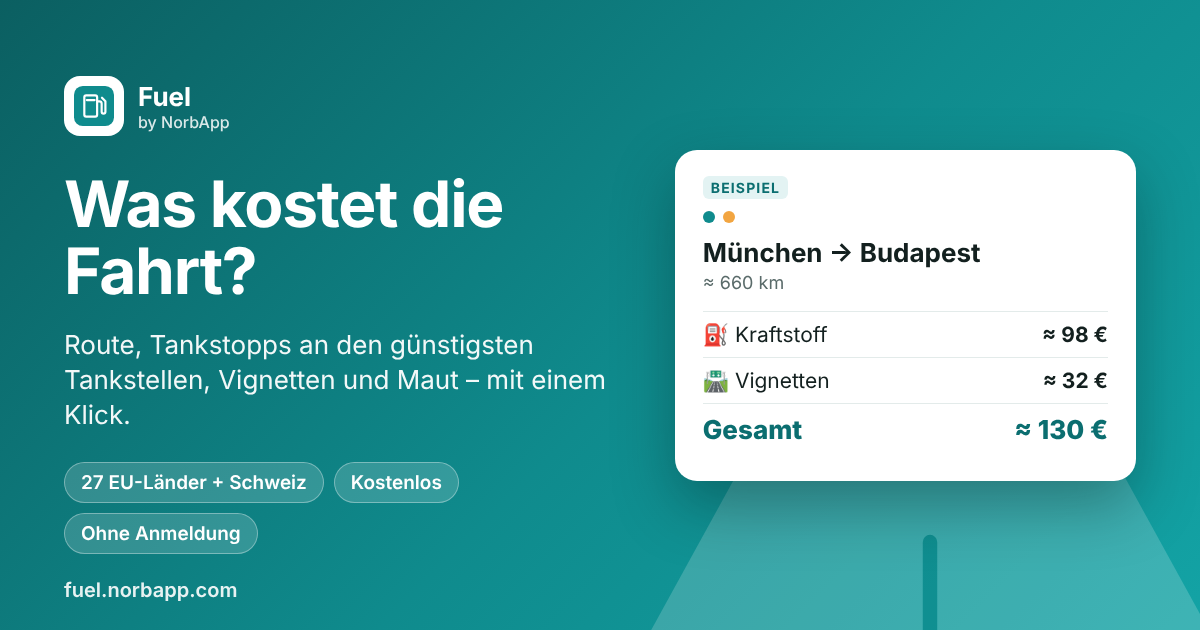
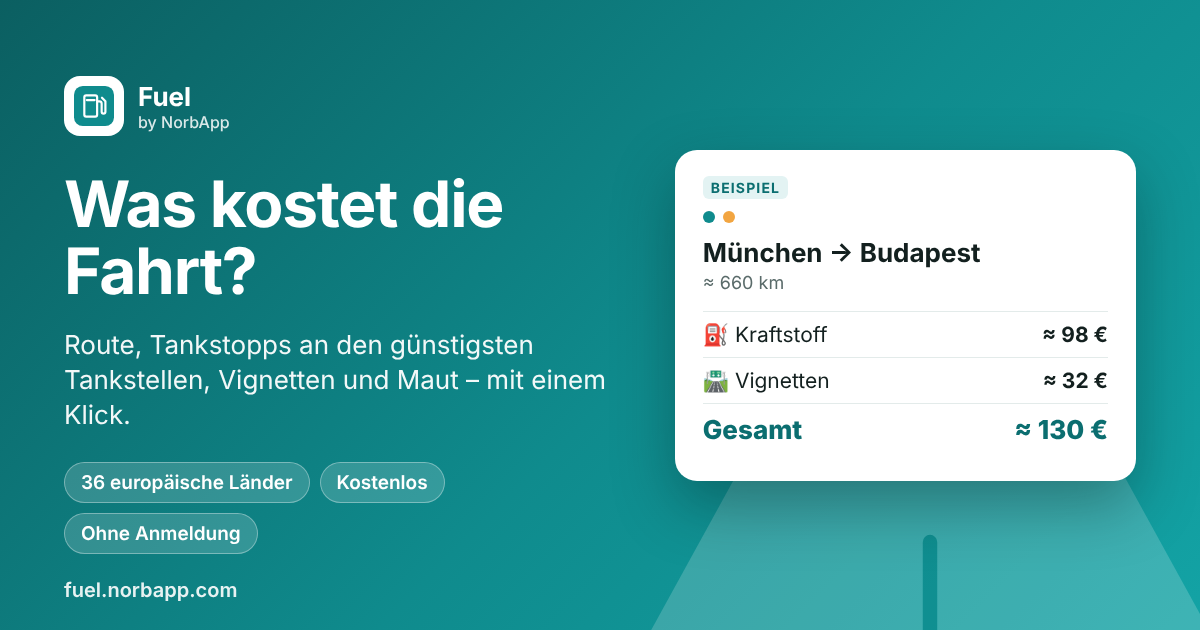
Western Balkans and Turkey: prices, tolls, currencies
- FUEL-API: RS, BA, ME, MK, XK and TR as estimate countries. Their average
  is a ratio (2025 national price level) of the same morning's HR/HU/SI/BG/
  RO/GR Oil Bulletin average, so it moves daily with the region; overridable
  via BASE_PRICES_JSON, refined per station by community reports.
- Currencies: TRY from the ECB; BAM (peg), MKD and RSD fixed rates.
- Tolls: per-km averages for RS, BA, MK, TR (bridges/tunnels not included),
  ME per km + Sozina tunnel, XK free. Turkish O roads count as motorways.
- Texts: 36 countries in the subtitle (24 languages), descriptions, share
  images, sources page and Facebook kit.

Claude-Session: https://claude.ai/code/session_01T5D9cFDC5HJvcRdggH5A5a

Changed region(s): [[0.0617, 0.7238, 0.4008, 0.8143]]

diff --git a/web/src/i18n/legal.ts b/web/src/i18n/legal.ts
@@ -27,14 +27,14 @@ const SOURCES_EN: LegalPage = {
       title: "Fuel prices",
       body: [
         "Fuel station locations in average-price countries: OpenStreetMap (Overpass API). User-reported prices: Fuel by NorbApp users. Station prices: Germany – Tankerkönig / MTS-K (CC BY 4.0); Austria – E-Control Spritpreisrechner; Spain, France, Italy, Portugal and Slovenia – the official open price data of those countries.",
-        "Country averages and estimates: European Commission Weekly Oil Bulletin. Switzerland: TCS fuel price radar as anchor, moved daily with the neighbouring countries. Exchange rates: European Central Bank.",
+        "Country averages and estimates: European Commission Weekly Oil Bulletin. Switzerland: TCS fuel price radar as anchor, moved daily with the neighbouring countries. Western Balkans and Turkey: estimated from the national price level relative to the neighbouring EU countries, moved daily with them. Exchange rates: European Central Bank.",
         "All prices are indicative; the price at the pump is what counts.",
       ],
     },
     {
       title: "Tolls and vignettes",
       body: [
-        "Vignette and toll tariffs are collected from the official national operators and checked regularly. Distance-based tolls are estimates.",
+        "Vignette and toll tariffs are collected from the official national operators and checked regularly. Distance-based tolls (and all tolls in the Western Balkans and Turkey) are estimates.",
       ],
     },
     {
@@ -228,14 +228,14 @@ const DE: LegalTexts = {
         title: "Kraftstoffpreise",
         body: [
           "Tankstellenstandorte in Ländern mit Durchschnittspreisen: OpenStreetMap (Overpass API). Von Nutzern gemeldete Preise: Nutzer von Fuel by NorbApp. Tankstellenpreise: Deutschland – Tankerkönig / MTS-K (CC BY 4.0); Österreich – E-Control Spritpreisrechner; Spanien, Frankreich, Italien, Portugal und Slowenien – die offiziellen offenen Preisdaten dieser Länder.",
-          "Landesdurchschnitte und Schätzungen: Weekly Oil Bulletin der Europäischen Kommission. Schweiz: TCS-Benzinpreis-Radar als Anker, täglich mit den Nachbarländern fortgeschrieben. Wechselkurse: Europäische Zentralbank.",
+          "Landesdurchschnitte und Schätzungen: Weekly Oil Bulletin der Europäischen Kommission. Schweiz: TCS-Benzinpreis-Radar als Anker, täglich mit den Nachbarländern fortgeschrieben. Westbalkan und Türkei: geschätzt aus dem nationalen Preisniveau im Verhältnis zu den benachbarten EU-Ländern, täglich mit ihnen fortgeschrieben. Wechselkurse: Europäische Zentralbank.",
           "Alle Preise sind Richtwerte; maßgeblich ist der Preis an der Zapfsäule.",
         ],
       },
       {
         title: "Maut und Vignetten",
         body: [
-          "Vignetten- und Mauttarife stammen von den offiziellen nationalen Betreibern und werden regelmäßig geprüft. Streckenmaut ist geschätzt.",
+          "Vignetten- und Mauttarife stammen von den offiziellen nationalen Betreibern und werden regelmäßig geprüft. Streckenmaut (und alle Mautgebühren auf dem Westbalkan und in der Türkei) ist geschätzt.",
         ],
       },
       {
@@ -344,14 +344,14 @@ const HU: LegalTexts = {
         title: "Üzemanyagárak",
         body: [
           "A kutak helye az átlagáras országokban: OpenStreetMap (Overpass API). Felhasználói árak: a Fuel by NorbApp felhasználói. Kútárak: Németország – Tankerkönig / MTS-K (CC BY 4.0); Ausztria – E-Control Spritpreisrechner; Spanyolország, Franciaország, Olaszország, Portugália és Szlovénia – az adott ország hivatalos, nyílt áradatai.",
-          "Országos átlagok és becslések: az Európai Bizottság Weekly Oil Bulletinje. Svájc: a TCS árradarja mint kiindulópont, naponta a szomszédos országokkal együtt mozgatva. Árfolyamok: Európai Központi Bank.",
+          "Országos átlagok és becslések: az Európai Bizottság Weekly Oil Bulletinje. Svájc: a TCS árradarja mint kiindulópont, naponta a szomszédos országokkal együtt mozgatva. Nyugat-Balkán és Törökország: az országos árszint a szomszédos EU-országokhoz viszonyítva, naponta velük együtt mozgatva. Árfolyamok: Európai Központi Bank.",
           "Minden ár tájékoztató jellegű; a kútnál kiírt ár az irányadó.",
         ],
       },
       {
         title: "Útdíjak és matricák",
         body: [
-          "A matrica- és útdíjtarifák a hivatalos nemzeti üzemeltetőktől származnak, rendszeresen ellenőrizzük őket. A szakaszalapú díjak becslések.",
+          "A matrica- és útdíjtarifák a hivatalos nemzeti üzemeltetőktől származnak, rendszeresen ellenőrizzük őket. A szakaszalapú díjak (és a Nyugat-Balkán, valamint Törökország útdíjai) becslések.",
         ],
       },
       {

diff --git a/web/src/app/page.tsx b/web/src/app/page.tsx
@@ -9,19 +9,19 @@ const SHARE = {
   hu: {
     title: "Fuel by NorbApp – Mennyibe kerül az út?",
     description:
-      "Útvonal, tankolás a legolcsóbb kutaknál, matricák és útdíjak – egy kattintással. 27 EU-ország + Svájc, ingyenes, regisztráció nélkül.",
+      "Útvonal, tankolás a legolcsóbb kutaknál, matricák és útdíjak – egy kattintással. 36 európai ország a Balkánnal és Törökországgal, ingyenes, regisztráció nélkül.",
     locale: "hu_HU",
   },
   de: {
     title: "Fuel by NorbApp – Was kostet die Fahrt?",
     description:
-      "Route, Tankstopps an den günstigsten Tankstellen, Vignetten und Maut – mit einem Klick. 27 EU-Länder + Schweiz, kostenlos, ohne Anmeldung.",
+      "Route, Tankstopps an den günstigsten Tankstellen, Vignetten und Maut – mit einem Klick. 36 europäische Länder inkl. Balkan und Türkei, kostenlos, ohne Anmeldung.",
     locale: "de_DE",
   },
   en: {
     title: "Fuel by NorbApp – What will the trip cost?",
     description:
-      "Route, fuel stops at the cheapest stations, vignettes and tolls – in one click. 27 EU countries + Switzerland, free, no sign-up.",
+      "Route, fuel stops at the cheapest stations, vignettes and tolls – in one click. 36 European countries incl. the Balkans and Turkey, free, no sign-up.",
     locale: "en_GB",
   },
 } as const;

diff --git a/web/src/i18n/messages/el.ts b/web/src/i18n/messages/el.ts
@@ -4,7 +4,7 @@ export const el: Messages = {
   brand: "Fuel by NorbApp",
   title: "Υπολογισμός κόστους ταξιδιού",
   subtitle:
-    "Διαδρομή, στάσεις ανεφοδιασμού, τιμές καυσίμων και διόδια για τις 27 χώρες της ΕΕ, καθώς και για Ελβετία, Λιχτενστάιν και Μονακό – στο νόμισμα της επιλογής σας.",
+    "Διαδρομή, στάσεις ανεφοδιασμού, τιμές καυσίμων και διόδια για 36 ευρωπαϊκές χώρες – την ΕΕ, την Ελβετία, τα Δυτικά Βαλκάνια και την Τουρκία – στο νόμισμα της επιλογής σας.",
   language: "Γλώσσα",
   footerDisclaimer: "Οι τιμές είναι ενδεικτικές.",
   footerMapData: "Δεδομένα χάρτη © συντελεστές του {osm}",

diff --git a/web/src/i18n/messages/bg.ts b/web/src/i18n/messages/bg.ts
@@ -4,7 +4,7 @@ export const bg: Messages = {
   brand: "Fuel by NorbApp",
   title: "Калкулатор на разходите за пътуване",
   subtitle:
-    "Маршрут, спирки за зареждане, цени на горивата и пътни такси за 27-те държави от ЕС, както и за Швейцария, Лихтенщайн и Монако – във валута по ваш избор.",
+    "Маршрут, спирки за зареждане, цени на горивата и пътни такси за 36 европейски държави – ЕС, Швейцария, Западните Балкани и Турция – във валута по ваш избор.",
   language: "Език",
   footerDisclaimer: "Цените са ориентировъчни.",
   footerMapData: "Картографски данни © сътрудници на {osm}",

diff --git a/web/src/app/layout.tsx b/web/src/app/layout.tsx
@@ -14,7 +14,7 @@ export const metadata: Metadata = {
   metadataBase: new URL("https://fuel.norbapp.com"),
   title: "Fuel by NorbApp – útiköltség-kalkulátor",
   description:
-    "Tervezd meg az út üzemanyag- és útdíjköltségét: útvonal, tankolási pontok, kútárak és útdíjak a 27 EU-országra és Svájcra, Liechtensteinre, Monacóra, választható pénznemben.",
+    "Tervezd meg az út üzemanyag- és útdíjköltségét: útvonal, tankolási pontok, kútárak és útdíjak 36 európai országra (EU, Svájc, Nyugat-Balkán, Törökország), választható pénznemben.",
   applicationName: "Fuel by NorbApp",
   appleWebApp: { capable: true, title: "Fuel", statusBarStyle: "default" },
   icons: { apple: "/icons/apple-touch-icon.png" },

diff --git a/web/src/lib/motorway.ts b/web/src/lib/motorway.ts
@@ -2,11 +2,14 @@ import type { LatLng } from "./geo";
 
 // Motorway refs per country (OSM `ref` tags as OSRM reports them, e.g. "A 6",
 // "AP-7", "A1;E 70"). Only distance-toll countries matter for the estimate;
-// Spain tolls the AP network only, Ireland's tolled roads are M roads.
+// Spain tolls the AP network only, Ireland's tolled roads are M roads,
+// Turkey's are the O roads; the Western Balkans use A like the default.
 const MOTORWAY_REF: Record<string, RegExp> = {
   ES: /^AP[- ]?\d/,
   IE: /^M ?\d/,
   GR: /^[AΑ] ?\d/,
+  // Turkish motorways (otoyol) are O-1, O-3, O-4…; D roads are free state roads.
+  TR: /^O[- ]?\d/,
 };
 const DEFAULT_MOTORWAY_REF = /^A[- ]?\d/;
 

diff --git a/web/src/i18n/messages/fr.ts b/web/src/i18n/messages/fr.ts
@@ -4,7 +4,7 @@ export const fr: Messages = {
   brand: "Fuel by NorbApp",
   title: "Calculateur de coût de trajet",
   subtitle:
-    "Itinéraire, arrêts carburant, prix des carburants et péages pour les 27 pays de l’UE ainsi que la Suisse, le Liechtenstein et Monaco – dans la devise de votre choix.",
+    "Itinéraire, arrêts carburant, prix des carburants et péages pour 36 pays européens – l’UE, la Suisse, les Balkans occidentaux et la Turquie – dans la devise de votre choix.",
   language: "Langue",
   footerDisclaimer: "Les prix sont indicatifs.",
   footerMapData: "Données cartographiques © contributeurs {osm}",

diff --git a/web/src/i18n/messages/lt.ts b/web/src/i18n/messages/lt.ts
@@ -4,7 +4,7 @@ export const lt: Messages = {
   brand: "Fuel by NorbApp",
   title: "Kelionės išlaidų skaičiuoklė",
   subtitle:
-    "Maršrutas, degalų pylimo sustojimai, degalų kainos ir kelių mokesčiai 27 ES šalyse, taip pat Šveicarijoje, Lichtenšteine ir Monake – jūsų pasirinkta valiuta.",
+    "Maršrutas, degalų pylimo sustojimai, degalų kainos ir kelių mokesčiai 36 Europos šalyse – ES, Šveicarijoje, Vakarų Balkanuose ir Turkijoje – jūsų pasirinkta valiuta.",
   language: "Kalba",
   footerDisclaimer: "Kainos yra orientacinės.",
   footerMapData: "Žemėlapio duomenys © {osm} bendraautoriai",

diff --git a/web/src/i18n/messages/mt.ts b/web/src/i18n/messages/mt.ts
@@ -4,7 +4,7 @@ export const mt: Messages = {
   brand: "Fuel by NorbApp",
   title: "Kalkulatur tal-ispiża tal-vjaġġ",
   subtitle:
-    "Rotta, waqfiet għall-fjuwil, prezzijiet tal-fjuwil u pedaġġi għas-27 pajjiż tal-UE flimkien mal-Iżvizzera, il-Liechtenstein u Monaco – fil-munita li tagħżel.",
+    "Rotta, waqfiet għall-fjuwil, prezzijiet tal-fjuwil u pedaġġi għal 36 pajjiż Ewropew – l-UE, l-Iżvizzera, il-Balkani tal-Punent u t-Turkija – fil-munita li tagħżel.",
   language: "Lingwa",
   footerDisclaimer: "Il-prezzijiet huma indikattivi.",
   footerMapData: "Data tal-mappa © kontributuri ta' {osm}",

diff --git a/web/src/i18n/messages/pt.ts b/web/src/i18n/messages/pt.ts
@@ -4,7 +4,7 @@ export const pt: Messages = {
   brand: "Fuel by NorbApp",
   title: "Calculadora de custos de viagem",
   subtitle:
-    "Percurso, paragens para abastecer, preços de combustível e portagens nos 27 países da UE, mais a Suíça, o Listenstaine e o Mónaco – na moeda à sua escolha.",
+    "Percurso, paragens para abastecer, preços de combustível e portagens em 36 países europeus – a UE, a Suíça, os Balcãs Ocidentais e a Turquia – na moeda à sua escolha.",
   language: "Idioma",
   footerDisclaimer: "Os preços são indicativos.",
   footerMapData: "Dados do mapa © contribuidores do {osm}",

diff --git a/web/src/i18n/messages/it.ts b/web/src/i18n/messages/it.ts
@@ -4,7 +4,7 @@ export const it: Messages = {
   brand: "Fuel by NorbApp",
   title: "Calcolatore dei costi di viaggio",
   subtitle:
-    "Percorso, soste per il rifornimento, prezzi dei carburanti e pedaggi per i 27 paesi UE più Svizzera, Liechtenstein e Monaco – nella valuta che preferisci.",
+    "Percorso, soste per il rifornimento, prezzi dei carburanti e pedaggi per 36 paesi europei – l’UE, la Svizzera, i Balcani occidentali e la Turchia – nella valuta che preferisci.",
   language: "Lingua",
   footerDisclaimer: "I prezzi sono indicativi.",
   footerMapData: "Dati cartografici © contributori di {osm}",

diff --git a/web/src/i18n/messages/ga.ts b/web/src/i18n/messages/ga.ts
@@ -4,7 +4,7 @@ export const ga: Messages = {
   brand: "Fuel by NorbApp",
   title: "Áireamhán costais turais",
   subtitle:
-    "Bealach, stadanna breosla, praghsanna breosla agus dolaí do 27 tír an AE chomh maith leis an Eilvéis, Lichtinstéin agus Monacó – san airgeadra is rogha leat.",
+    "Bealach, stadanna breosla, praghsanna breosla agus dolaí do 36 tír Eorpach – an AE, an Eilvéis, na Balcáin Thiar agus an Tuirc – san airgeadra is rogha leat.",
   language: "Teanga",
   footerDisclaimer: "Is praghsanna táscacha iad seo.",
   footerMapData: "Sonraí léarscáile © rannpháirtithe {osm}",
